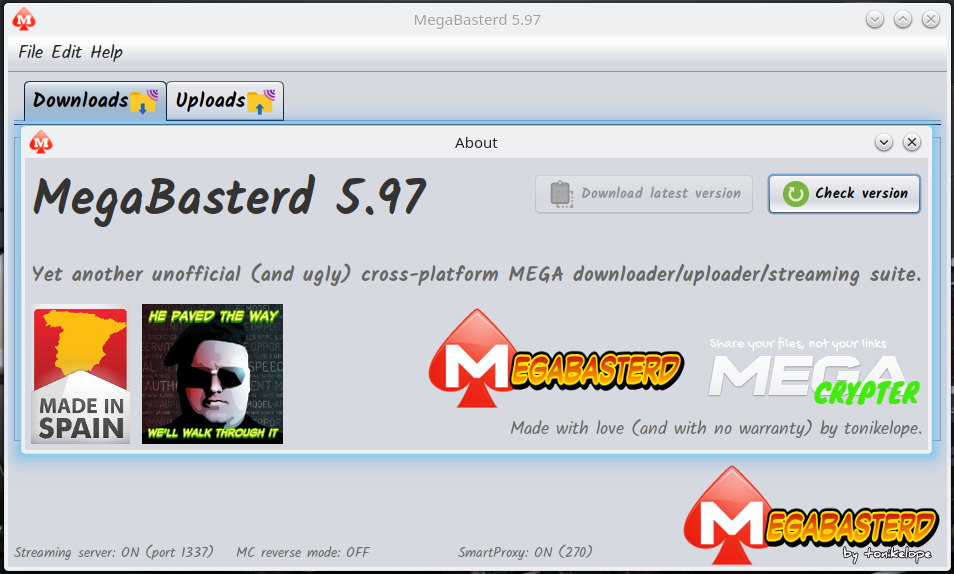
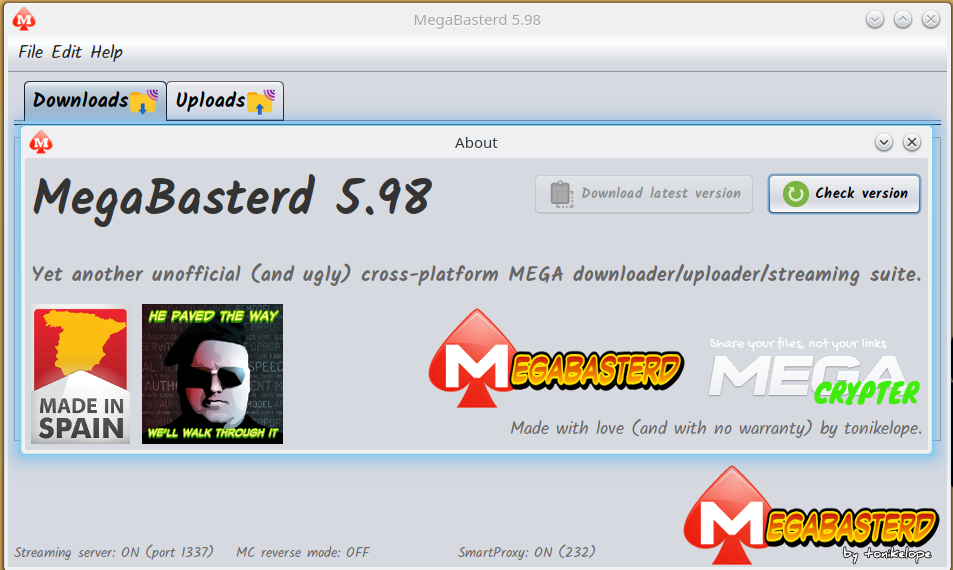
5.98
-Smart Proxy Global

Changed region(s): [[0.0, 0.0, 1.0, 1.0], [0.4869, 0.5368, 0.5173, 0.5667]]

diff --git a/src/main/java/com/tonikelope/megabasterd/SmartMegaProxyManager.java b/src/main/java/com/tonikelope/megabasterd/SmartMegaProxyManager.java
@@ -1,5 +1,6 @@
 package com.tonikelope.megabasterd;
 
+import static com.tonikelope.megabasterd.MiscTools.swingInvoke;
 import java.io.ByteArrayOutputStream;
 import java.io.IOException;
 import java.io.InputStream;
@@ -15,17 +16,19 @@ import java.util.logging.Logger;
  *
  * @author tonikelope
  */
-public class SmartMegaProxyManager {
+public final class SmartMegaProxyManager {
 
     public static String DEFAULT_SMART_PROXY_URL = "https://raw.githubusercontent.com/tonikelope/megabasterd/proxy_list/proxy_list.txt";
     public static final int BLOCK_TIME = 600;
     private volatile String _proxy_list_url;
     private final LinkedHashMap<String, Long> _proxy_list;
+    private final MainPanel _main_panel;
 
-    public SmartMegaProxyManager(String proxy_list_url) {
+    public SmartMegaProxyManager(String proxy_list_url, MainPanel main_panel) {
         _proxy_list_url = (proxy_list_url != null && !"".equals(proxy_list_url)) ? proxy_list_url : DEFAULT_SMART_PROXY_URL;
         _proxy_list = new LinkedHashMap<>();
-        _refreshProxyList();
+        _main_panel = main_panel;
+        refreshProxyList();
     }
 
     public synchronized int getProxyCount() {
@@ -45,9 +48,11 @@ public class SmartMegaProxyManager {
             }
         }
 
-        _refreshProxyList();
+        Logger.getLogger(getClass().getName()).log(Level.WARNING, "{0} Smart Proxy Manager: NO PROXYS AVAILABLE!!", new Object[]{Thread.currentThread().getName()});
 
-        return null;
+        refreshProxyList();
+
+        return getProxyCount() > 0 ? getFastestProxy() : null;
     }
 
     public synchronized void blockProxy(String proxy) {
@@ -58,7 +63,7 @@ public class SmartMegaProxyManager {
         }
     }
 
-    private void _refreshProxyList() {
+    public synchronized void refreshProxyList() {
 
         String data;
 
@@ -105,6 +110,14 @@ public class SmartMegaProxyManager {
                         }
                     }
                 }
+
+                swingInvoke(
+                        new Runnable() {
+                    @Override
+                    public void run() {
+                        _main_panel.getView().updateSmartProxyStatus("SmartProxy: ON (" + String.valueOf(getProxyCount()) + ")");
+                    }
+                });
 
                 Logger.getLogger(getClass().getName()).log(Level.INFO, "{0} Smart Proxy Manager: proxy list refreshed ({1})", new Object[]{Thread.currentThread().getName(), _proxy_list.size()});
             }

diff --git a/src/main/java/com/tonikelope/megabasterd/StreamChunkDownloader.java b/src/main/java/com/tonikelope/megabasterd/StreamChunkDownloader.java
@@ -20,12 +20,10 @@ public class StreamChunkDownloader implements Runnable {
     private final int _id;
     private final StreamChunkManager _chunkmanager;
     private volatile boolean _exit;
-    private SmartMegaProxyManager _proxy_manager;
 
     public StreamChunkDownloader(int id, StreamChunkManager chunkmanager) {
         _id = id;
         _chunkmanager = chunkmanager;
-        _proxy_manager = null;
         _exit = false;
     }
 
@@ -50,13 +48,9 @@ public class StreamChunkDownloader implements Runnable {
 
             long offset = -1;
 
+            SmartMegaProxyManager proxy_manager = MainPanel.getProxy_manager();
+
             while (!_exit && !_chunkmanager.isExit()) {
-
-                if (MainPanel.isUse_smart_proxy() && _proxy_manager == null) {
-
-                    _proxy_manager = new SmartMegaProxyManager(null);
-
-                }
 
                 while (!_exit && !_chunkmanager.isExit() && _chunkmanager.getChunk_queue().size() >= StreamChunkManager.BUFFER_CHUNKS_SIZE) {
 
@@ -82,10 +76,10 @@ public class StreamChunkDownloader implements Runnable {
 
                         if (current_smart_proxy != null) {
 
-                            _proxy_manager.blockProxy(current_smart_proxy);
+                            proxy_manager.blockProxy(current_smart_proxy);
                         }
 
-                        current_smart_proxy = _proxy_manager.getFastestProxy();
+                        current_smart_proxy = proxy_manager.getFastestProxy();
 
                         if (current_smart_proxy != null) {
 

diff --git a/src/main/java/com/tonikelope/megabasterd/MainPanel.java b/src/main/java/com/tonikelope/megabasterd/MainPanel.java
@@ -48,7 +48,7 @@ import javax.swing.UIManager;
  */
 public final class MainPanel {
 
-    public static final String VERSION = "5.97";
+    public static final String VERSION = "5.98";
     public static final int THROTTLE_SLICE_SIZE = 16 * 1024;
     public static final int DEFAULT_BYTE_BUFFER_SIZE = 16 * 1024;
     public static final int STREAMER_PORT = 1337;
@@ -194,6 +194,8 @@ public final class MainPanel {
 
         _use_smart_proxy = false;
 
+        _proxy_manager = null;
+
         try {
 
             setupSqliteTables();
@@ -280,21 +282,13 @@ public final class MainPanel {
 
         if (_use_smart_proxy) {
 
+            MainPanel tthis = this;
+
             THREAD_POOL.execute(
                     new Runnable() {
                 @Override
                 public void run() {
-
-                    _proxy_manager = new SmartMegaProxyManager(null);
-
-                    swingInvoke(
-                            new Runnable() {
-                        @Override
-                        public void run() {
-                            getView().updateSmartProxyStatus("SmartProxy: ON (" + String.valueOf(_proxy_manager.getProxyCount()) + ")");
-                        }
-                    });
-
+                    _proxy_manager = new SmartMegaProxyManager(null, tthis);
                 }
             });
 

diff --git a/src/main/java/com/tonikelope/megabasterd/Download.java b/src/main/java/com/tonikelope/megabasterd/Download.java
@@ -90,7 +90,6 @@ public final class Download implements Transference, Runnable, SecureSingleThrea
     private volatile boolean _canceled;
     private volatile boolean _error509;
     private volatile boolean _turbo_proxy_mode;
-    private SmartMegaProxyManager _proxy_manager;
 
     public Download(MainPanel main_panel, MegaAPI ma, String url, String download_path, String file_name, String file_key, Long file_size, String file_pass, String file_noexpire, boolean use_slots, boolean restart) {
 
@@ -173,10 +172,6 @@ public final class Download implements Transference, Runnable, SecureSingleThrea
         _view = new DownloadView(this);
         _progress_meter = new ProgressMeter(this);
 
-    }
-
-    public SmartMegaProxyManager getProxy_manager() {
-        return _proxy_manager;
     }
 
     public long getLast_chunk_id_dispatched() {
@@ -567,8 +562,6 @@ public final class Download implements Transference, Runnable, SecureSingleThrea
                         _thread_pool.execute(getProgress_meter());
 
                         getMain_panel().getGlobal_dl_speed().attachTransference(this);
-
-                        _proxy_manager = new SmartMegaProxyManager(null);
 
                         synchronized (_workers_lock) {
 

diff --git a/src/main/java/com/tonikelope/megabasterd/MainPanelView.java b/src/main/java/com/tonikelope/megabasterd/MainPanelView.java
@@ -945,7 +945,11 @@ public final class MainPanelView extends javax.swing.JFrame {
 
             if (MainPanel.isUse_smart_proxy()) {
 
-                MainPanel.setProxy_manager(new SmartMegaProxyManager(null));
+                if (MainPanel.getProxy_manager() == null) {
+                    MainPanel.setProxy_manager(new SmartMegaProxyManager(null, _main_panel));
+                }
+
+                MainPanel.getProxy_manager().refreshProxyList();
 
                 updateSmartProxyStatus("SmartProxy: ON (" + String.valueOf(MainPanel.getProxy_manager().getProxyCount()) + ")");
 

diff --git a/src/main/java/com/tonikelope/megabasterd/ChunkDownloader.java b/src/main/java/com/tonikelope/megabasterd/ChunkDownloader.java
@@ -107,7 +107,7 @@ public class ChunkDownloader implements Runnable, SecureSingleThreadNotifiable {
 
             long init_chunk_time = -1, finish_chunk_time = -1, pause_init_time, paused = 0L;
 
-            SmartMegaProxyManager proxy_manager = _download.getProxy_manager();
+            SmartMegaProxyManager proxy_manager = MainPanel.getProxy_manager();
 
             while (!_exit && !_download.isStopped()) {
 
